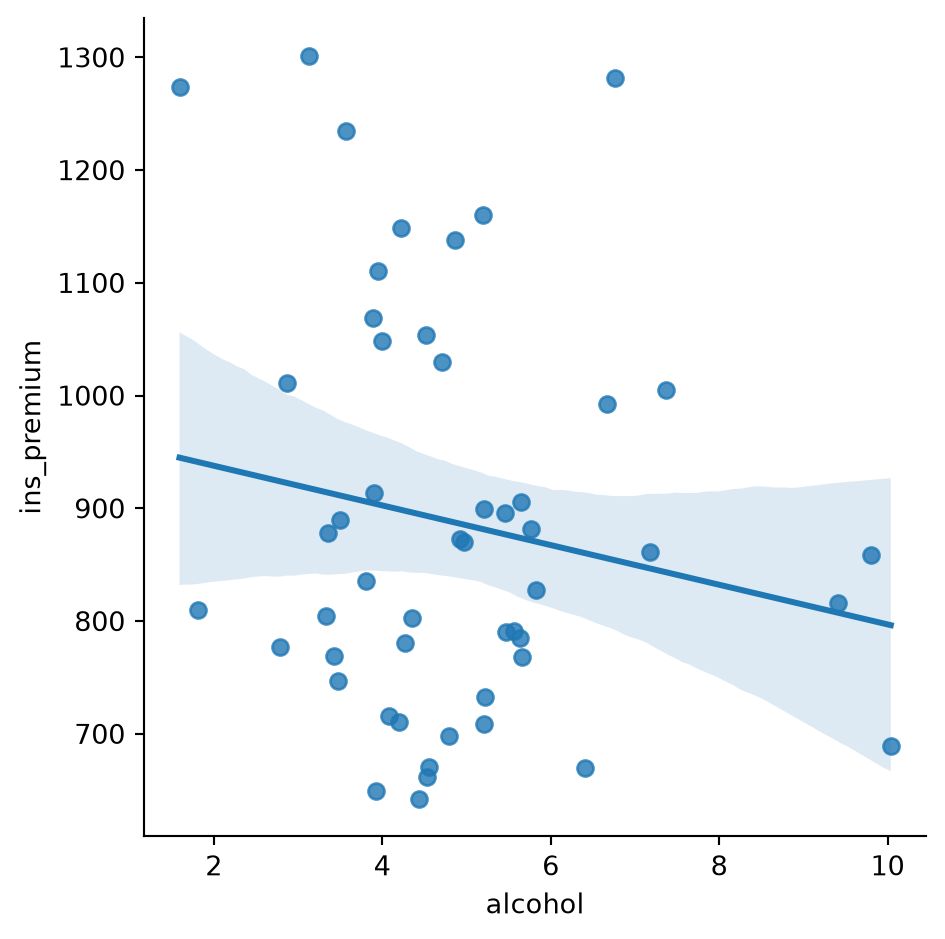
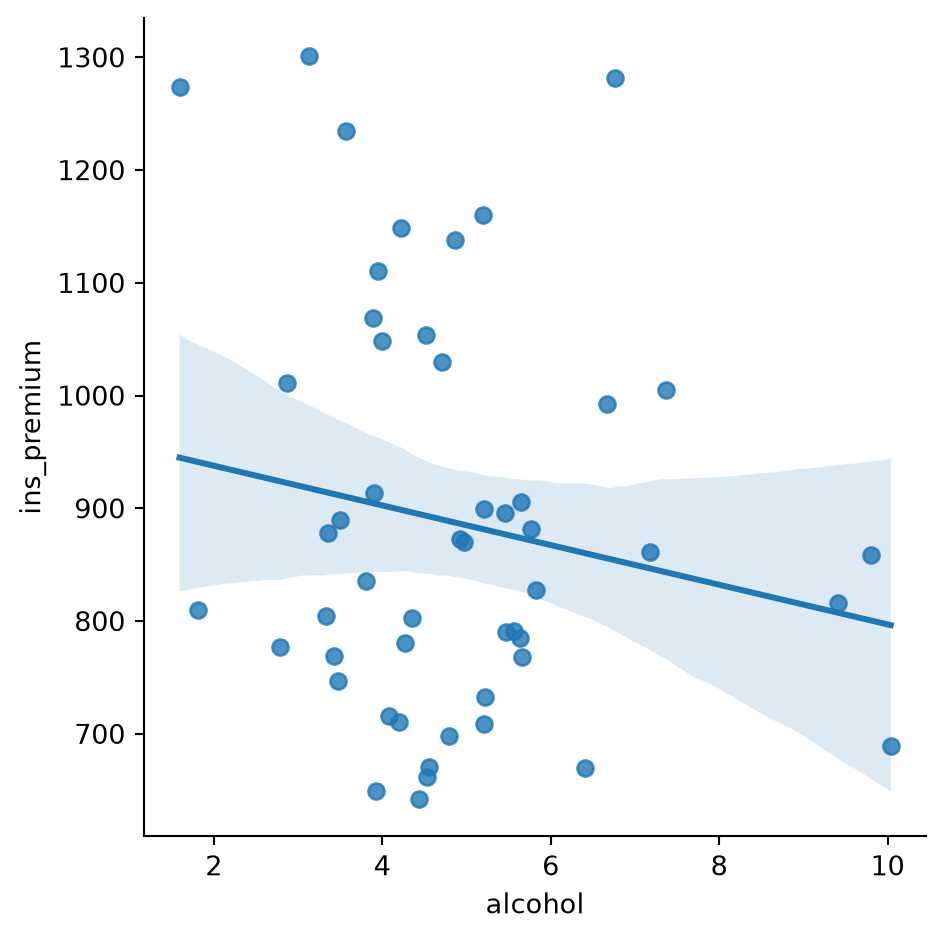
Made frowny face less dramatic

diff --git a/_site/index.html b/_site/index.html
@@ -246,7 +246,7 @@ div.csl-indent {
 
 <section id="introduction" class="level1">
 <h1>Introduction</h1>
-<div id="f6cb66a2" class="cell" data-execution_count="1">
+<div id="39819d5a" class="cell" data-execution_count="1">
 <div class="code-copy-outer-scaffold"><div class="sourceCode cell-code" id="cb1"><pre class="sourceCode python code-with-copy"><code class="sourceCode python"><span id="cb1-1"><a href="#cb1-1" aria-hidden="true" tabindex="-1"></a><span class="im">import</span> pandas <span class="im">as</span> pd</span>
 <span id="cb1-2"><a href="#cb1-2" aria-hidden="true" tabindex="-1"></a><span class="im">import</span> numpy <span class="im">as</span> np</span>
 <span id="cb1-3"><a href="#cb1-3" aria-hidden="true" tabindex="-1"></a></span>
@@ -256,7 +256,7 @@ div.csl-indent {
 <span id="cb1-7"><a href="#cb1-7" aria-hidden="true" tabindex="-1"></a></span>
 <span id="cb1-8"><a href="#cb1-8" aria-hidden="true" tabindex="-1"></a>df <span class="op">=</span> sns.load_dataset(<span class="st">'car_crashes'</span>)</span>
 <span id="cb1-9"><a href="#cb1-9" aria-hidden="true" tabindex="-1"></a>df.sample(<span class="dv">5</span>)</span></code></pre></div><button title="Copy to Clipboard" class="code-copy-button"><i class="bi"></i></button></div>
-<div class="cell-output cell-output-display" data-execution_count="5">
+<div class="cell-output cell-output-display" data-execution_count="1">
 <div>
 
 
@@ -276,59 +276,59 @@ div.csl-indent {
 </thead>
 <tbody>
 <tr class="odd">
-<th data-quarto-table-cell-role="th">2</th>
-<td>18.6</td>
-<td>6.510</td>
-<td>5.208</td>
-<td>15.624</td>
-<td>17.856</td>
-<td>899.47</td>
-<td>110.35</td>
-<td>AZ</td>
+<th data-quarto-table-cell-role="th">23</th>
+<td>9.6</td>
+<td>2.208</td>
+<td>2.784</td>
+<td>8.448</td>
+<td>8.448</td>
+<td>777.18</td>
+<td>133.35</td>
+<td>MN</td>
 </tr>
 <tr class="even">
-<th data-quarto-table-cell-role="th">34</th>
-<td>23.9</td>
-<td>5.497</td>
-<td>10.038</td>
-<td>23.661</td>
-<td>20.554</td>
-<td>688.75</td>
-<td>109.72</td>
-<td>ND</td>
+<th data-quarto-table-cell-role="th">5</th>
+<td>13.6</td>
+<td>5.032</td>
+<td>3.808</td>
+<td>10.744</td>
+<td>12.920</td>
+<td>835.50</td>
+<td>139.91</td>
+<td>CO</td>
 </tr>
 <tr class="odd">
-<th data-quarto-table-cell-role="th">30</th>
-<td>11.2</td>
-<td>1.792</td>
-<td>3.136</td>
-<td>9.632</td>
-<td>8.736</td>
-<td>1301.52</td>
-<td>159.85</td>
-<td>NJ</td>
+<th data-quarto-table-cell-role="th">24</th>
+<td>17.6</td>
+<td>2.640</td>
+<td>5.456</td>
+<td>1.760</td>
+<td>17.600</td>
+<td>896.07</td>
+<td>155.77</td>
+<td>MS</td>
 </tr>
 <tr class="even">
-<th data-quarto-table-cell-role="th">13</th>
-<td>12.8</td>
-<td>4.608</td>
-<td>4.352</td>
-<td>12.032</td>
-<td>12.288</td>
-<td>803.11</td>
-<td>139.15</td>
-<td>IL</td>
+<th data-quarto-table-cell-role="th">25</th>
+<td>16.1</td>
+<td>6.923</td>
+<td>5.474</td>
+<td>14.812</td>
+<td>13.524</td>
+<td>790.32</td>
+<td>144.45</td>
+<td>MO</td>
 </tr>
 <tr class="odd">
-<th data-quarto-table-cell-role="th">18</th>
-<td>20.5</td>
-<td>7.175</td>
-<td>6.765</td>
-<td>14.965</td>
-<td>20.090</td>
-<td>1281.55</td>
-<td>194.78</td>
-<td>LA</td>
+<th data-quarto-table-cell-role="th">42</th>
+<td>19.5</td>
+<td>4.095</td>
+<td>5.655</td>
+<td>15.990</td>
+<td>15.795</td>
+<td>767.91</td>
+<td>155.57</td>
+<td>TN</td>
 </tr>
 </tbody>
 </table>
@@ -336,7 +336,7 @@ div.csl-indent {
 </div>
 </div>
 </div>
-<p>I love drinking!!!!!! and all my friends love drinking!!!!!!!!!! and we need money for drinks!!!!!!!!!! but we keep spending money on insurance &gt;:((((((((((((((((((((. Are we paying more money to insurance the more we drink?!!!!!!!!!!!!!</p>
+<p>I love drinking!!!!!! and all my friends love drinking!!!!!!!!!! and we need money for drinks!!!!!!!!!! but we keep spending money on insurance &gt;:((((((((((((((((. Are we paying more money to insurance the more we drink?!!!!!!!!!!!!!</p>
 </section>
 <section id="literature-review" class="level1">
 <h1>Literature Review</h1>
@@ -349,7 +349,7 @@ div.csl-indent {
 </section>
 <section id="results" class="level1">
 <h1>Results</h1>
-<div id="5d71c0e4" class="cell" data-execution_count="2">
+<div id="cfd5eebf" class="cell" data-execution_count="2">
 <div class="code-copy-outer-scaffold"><div class="sourceCode cell-code" id="cb2"><pre class="sourceCode python code-with-copy"><code class="sourceCode python"><span id="cb2-1"><a href="#cb2-1" aria-hidden="true" tabindex="-1"></a>corr_val <span class="op">=</span> np.array(df[[<span class="st">'alcohol'</span>, <span class="st">'ins_premium'</span>]].corr())[<span class="dv">0</span>][<span class="dv">1</span>]</span>
 <span id="cb2-2"><a href="#cb2-2" aria-hidden="true" tabindex="-1"></a></span>
 <span id="cb2-3"><a href="#cb2-3" aria-hidden="true" tabindex="-1"></a><span class="bu">print</span>(corr_val)</span>
@@ -407,7 +407,7 @@ Vayadande, Kuldeep, Preeti Bailke, Ashutosh M Kulkarni, R Kumar, and Ajit B Pati
 </div>
 <section id="bonus-plots" class="level2">
 <h2 class="anchored" data-anchor-id="bonus-plots">Bonus plots</h2>
-<div id="92ab0ef6" class="cell" data-execution_count="4">
+<div id="34184331" class="cell" data-execution_count="4">
 <div class="code-copy-outer-scaffold"><div class="sourceCode cell-code" id="cb5"><pre class="sourceCode python code-with-copy"><code class="sourceCode python"><span id="cb5-1"><a href="#cb5-1" aria-hidden="true" tabindex="-1"></a>sns.lmplot(data<span class="op">=</span>df, y<span class="op">=</span><span class="st">'ins_premium'</span>, x<span class="op">=</span><span class="st">'alcohol'</span>)</span></code></pre></div><button title="Copy to Clipboard" class="code-copy-button"><i class="bi"></i></button></div>
 <div class="cell-output cell-output-display">
 <div>
